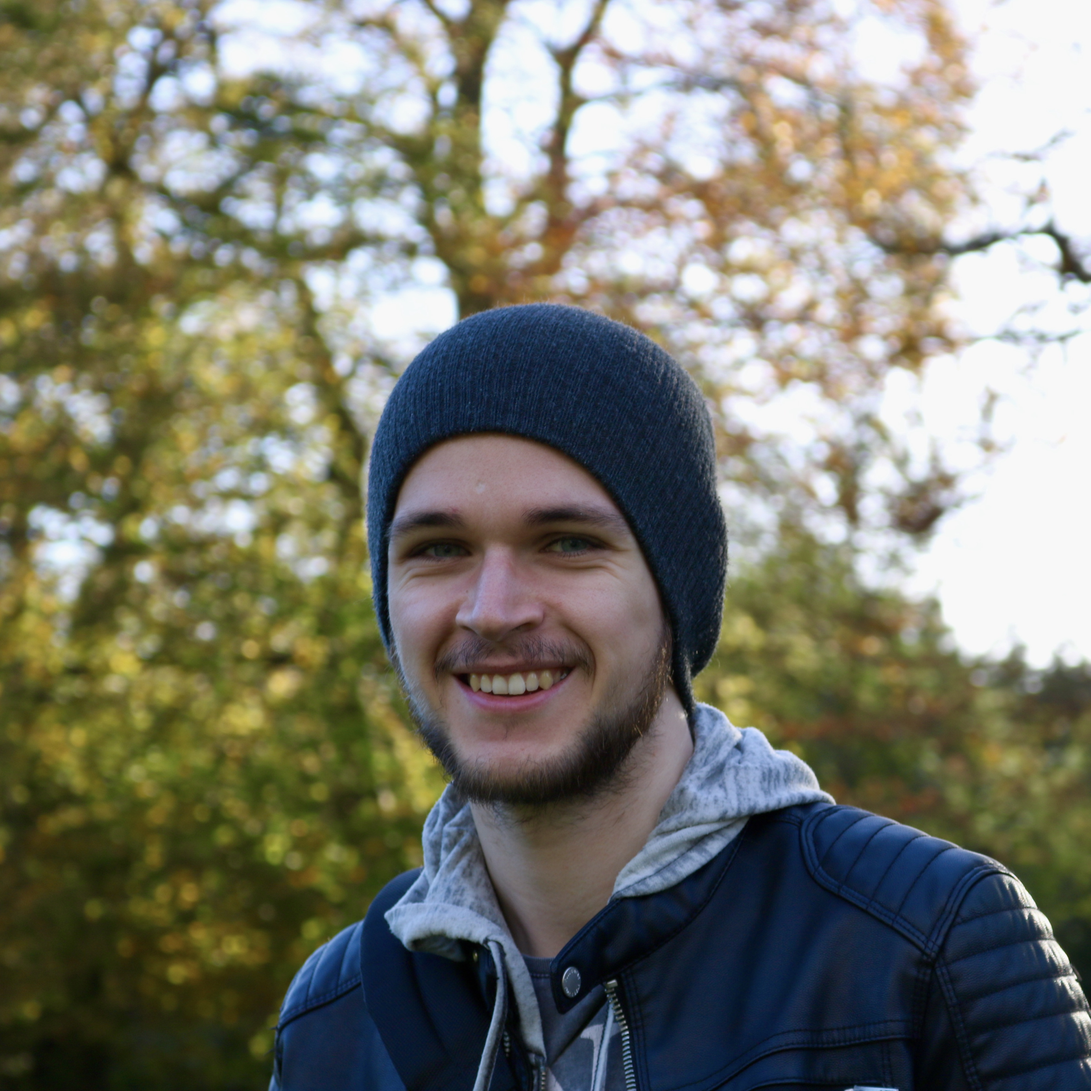
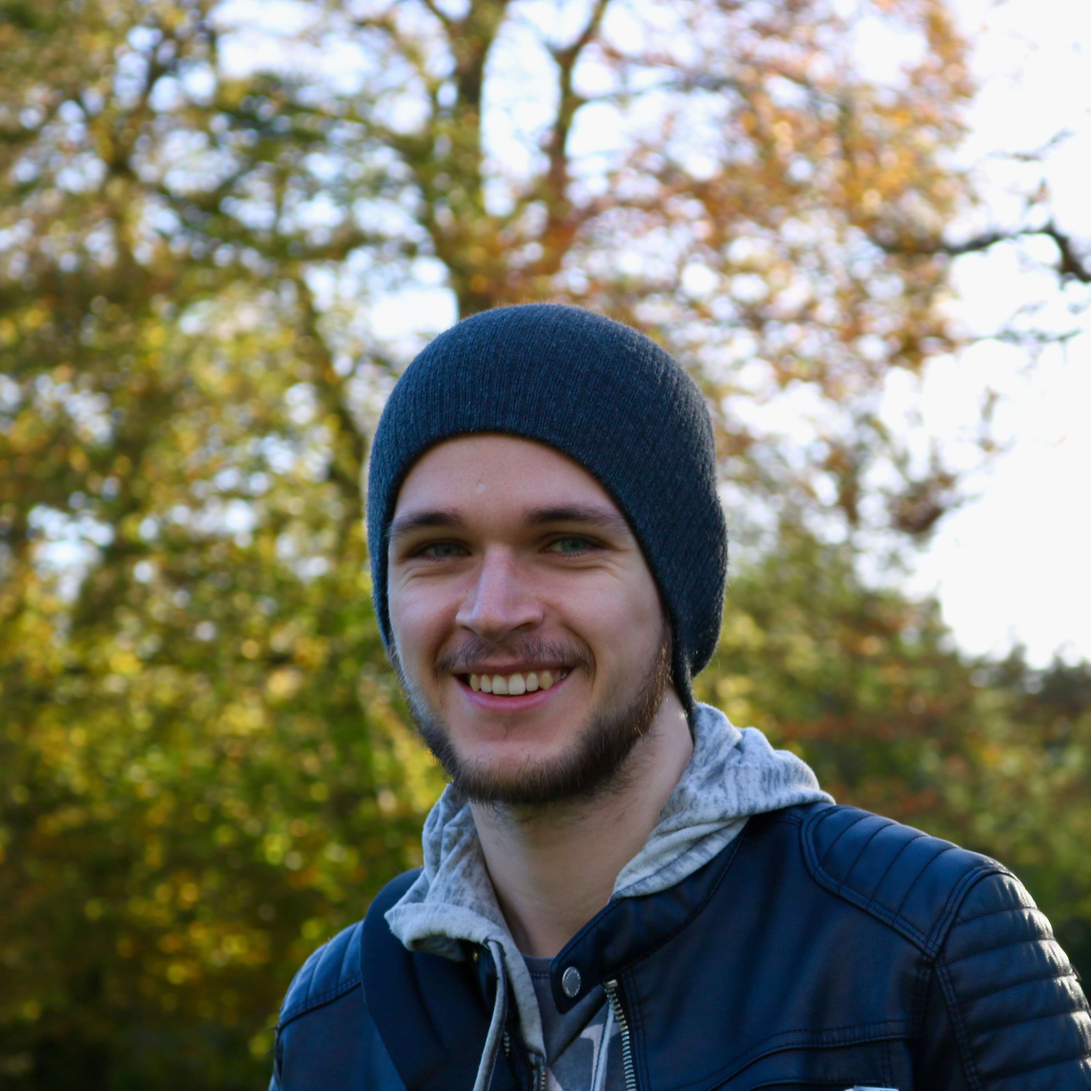
reducing image size

diff --git a/src/components/Hero/Hero.jsx b/src/components/Hero/Hero.jsx
@@ -26,10 +26,9 @@ const Header = () => {
       <Container>
         <Fade left={isDesktop} bottom={isMobile} duration={1000} delay={500} distance="30px">
           <h1 className="hero-title">
-            {title || 'Hi, my name is'}{' '}
-            <span className="text-color-main">{name || 'Your Name'}</span>
+            {title} <span className="text-color-main">{name}</span>
             <br />
-            {subtitle || "I'm the Unknown Developer."}
+            {subtitle}
           </h1>
         </Fade>
         <Fade left={isDesktop} bottom={isMobile} duration={1000} delay={1000} distance="30px">
